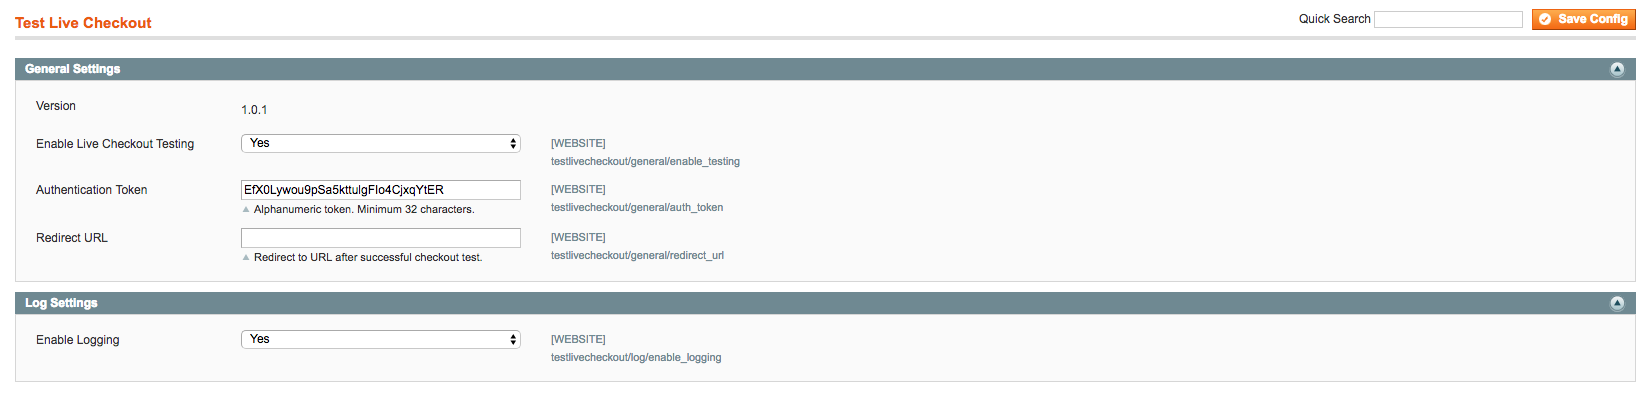
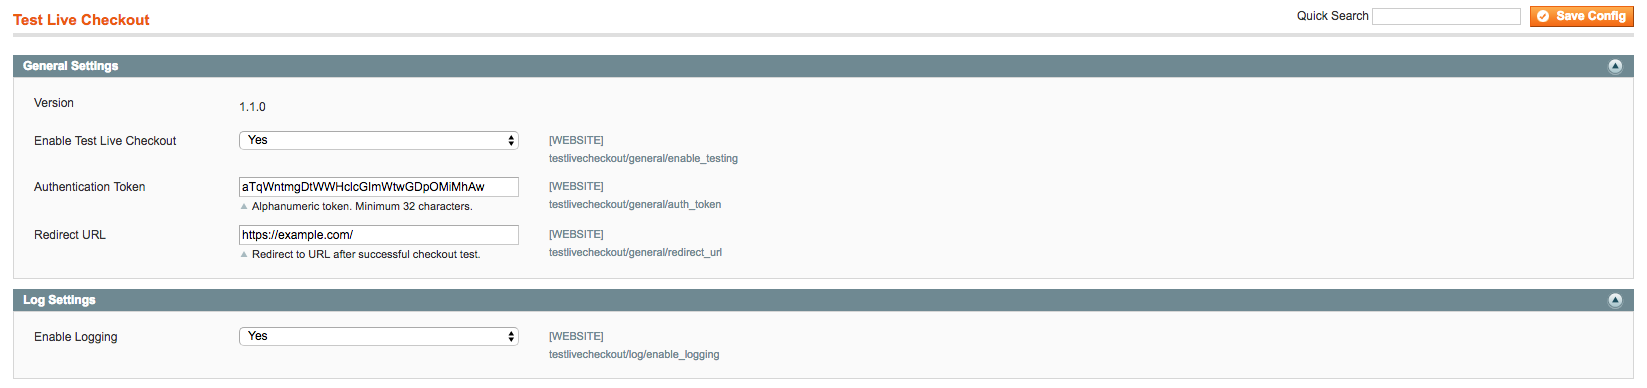
Update 1.x TLC docs/images/*, docs/configuration.md for 1.1.0

diff --git a/magento/extensions/1.x/testlivecheckout/docs/configuration.md b/magento/extensions/1.x/testlivecheckout/docs/configuration.md
@@ -14,10 +14,15 @@ To configure Test Live Checkout, log into the **admin panel** and navigate to **
 
 1. **Enable Logging**: Enable transaction logging. For monitoring and debugging purposes, Test Live Checkout provides the ability to log test transactions. By default, transaction logging is disabled.
 
-![General Settings](https://nickolasburr.github.io/magento/extensions/1.x/testlivecheckout/latest/images/settings.png)
+![Settings](https://nickolasburr.github.io/magento/extensions/1.x/testlivecheckout/latest/images/settings.png)
 
 ## Transaction Log
 
-During an authenticated transaction, Test Live Checkout will record certain fields from the order, such as the payment gateway and timestamp, that are helpful when debugging checkout issues.
+During an authenticated transaction, Test Live Checkout will record certain fields from the order, such as response code, payment gateway name,
+and timestamp, which can be helpful when monitoring and debugging transactions.
 
 ![Transaction Log](https://nickolasburr.github.io/magento/extensions/1.x/testlivecheckout/latest/images/log.png)
+
+To view details of a particular transaction, select the transaction from the list.
+
+![Transaction Details](https://nickolasburr.github.io/magento/extensions/1.x/testlivecheckout/latest/images/details.png)
